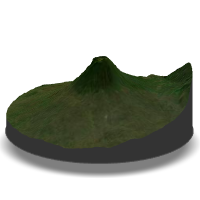
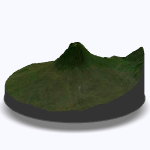
vista ghostwhite background

diff --git a/js/volcano-view.js b/js/volcano-view.js
@@ -204,8 +204,7 @@
 				var coords = f.getGeometry().getCoordinates();
 				var name = f.get('name');
 				var ele = f.get('ele');				
-				// popup.show(coords, '<div><h2>'+name+' ('+ele+'m)</h2><p>Click to show/hide viewshed.</p><img src="img/'+name+'.png" alt="'+name+'" width="125px" height="125px"></div>');
-				popup.show(coords, '<div style="background: url"img/'+name+'.png") no-repeat center center"><h2>'+name+' ('+ele+'m)</h2><p>Click to show/hide viewshed.</p></div>');
+				popup.show(coords, '<div><h2>'+name+' ('+ele+'m)</h2><p>Click to show/hide viewshed.</p><img src="img/'+name+'.png" alt="'+name+'" width="150px" height="150px"></div>');
 			});
 		});	
 

diff --git a/processing/render_volcano_vista.md b/processing/render_volcano_vista.md
@@ -52,10 +52,16 @@ render_volcano_vista = function(volcano, name) {
         lat = volcano$lat, lon = volcano$lon,
         baseshape = "circle", radius = volcano$ele*.6,
         phi = 20, theta = 0, zscale = 5, zoom = .6,
-        windowsize = 200
+        background = "#F8F8FF",
+        windowsize = 150
     )
 
     render_snapshot(filename = glue("../img/{name}.png"), clear = TRUE)
+    
+    # image_read(target) %>%
+    #   image_transparent("white", fuzz = 30) %>%
+    #   image_write(target)
+    
 }
 ```
 
